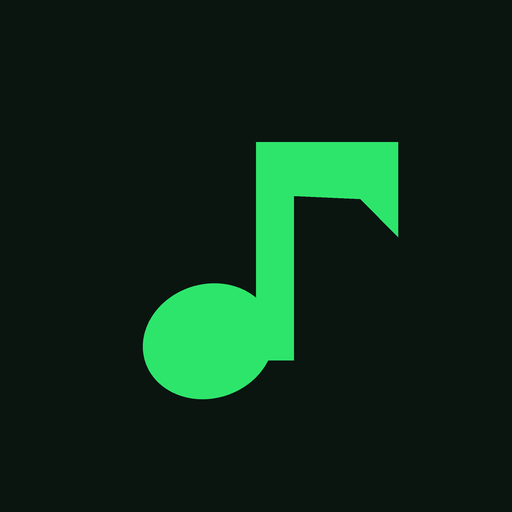
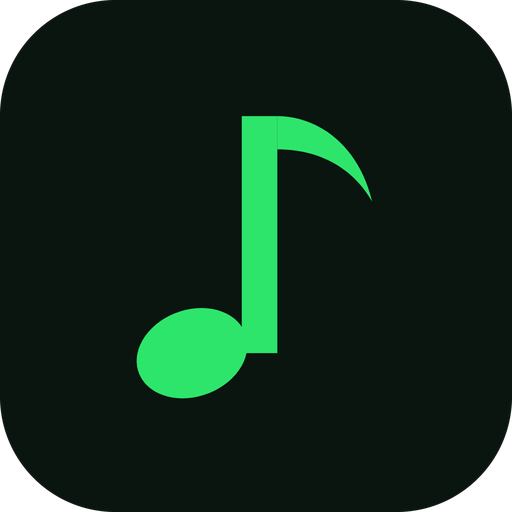
Melodia 7.30: icono rehecho y centrado
- Corchea redibujada: cabeza inclinada, mastil y bandera curva; centrada en el
  lienzo (antes estaba 4 dp a la derecha y 3 arriba) y dentro de la zona segura
  del icono adaptativo.
- Mipmaps legacy regenerados con esquinas redondeadas y version circular, con
  transparencia real; desaparecen los 10 avisos IconLauncherShape.
- Icono de tienda regenerado desde el mismo dibujo; original archivado en
  docs/store/sources/icon-512-anterior.png.
- tools/build_icon.py reproduce el icono y verifica zona segura y centrado.

diff --git a/tools/build_icon.py b/tools/build_icon.py
@@ -1,0 +1,157 @@
+#!/usr/bin/env python3
+"""Genera el icono de Melodia (adaptive + mipmaps legacy + icono de tienda).
+
+Uso: python3 tools/build_icon.py [--check]
+- Renderiza el SVG con Chromium headless y deriva todos los tamaños con LANCZOS.
+- --check solo informa geometría del render, sin escribir recursos.
+"""
+from __future__ import annotations
+
+import subprocess
+import sys
+import tempfile
+from pathlib import Path
+
+from PIL import Image, ImageDraw
+
+ROOT = Path(__file__).resolve().parents[1]
+RES = ROOT / "app/src/main/res"
+CHROME = sorted(Path.home().glob(".cache/ms-playwright/chromium_headless_shell-*/chrome-linux/headless_shell"))[-1]
+
+BG = "#0A1510"
+FG = "#2EE56B"
+SIZES = {"mdpi": 48, "hdpi": 72, "xhdpi": 96, "xxhdpi": 144, "xxxhdpi": 192}
+
+# Corchea centrada en el viewport 108x108: bbox x 29..79, y 24.5..83.5 (centro 54,54).
+NOTE = [
+    # Cabeza: elipse inclinada ~-20 grados.
+    "M40.5,74.5 m-11.5,0 a11.5,8.8 -20 1,0 23,0 a11.5,8.8 -20 1,0 -23,0",
+    # Mástil.
+    "M51,24.5 h7.5 v50 h-7.5 z",
+    # Bandera curva que cae hacia la derecha.
+    "M58.5,24.5 C66.5,24.5 75.5,30 78.5,42.5 C74.5,35.5 67.5,31.5 58.5,31.5 Z",
+]
+
+SVG_FULL = """<svg xmlns="http://www.w3.org/2000/svg" width="1024" height="1024" viewBox="0 0 108 108">
+<rect width="108" height="108" fill="{bg}"/>
+{paths}
+</svg>"""
+
+SVG_FG = """<svg xmlns="http://www.w3.org/2000/svg" width="1024" height="1024" viewBox="0 0 108 108">
+{paths}
+</svg>"""
+
+
+def svg(paths: list[str], background: str | None) -> str:
+    body = "\n".join(f'<path d="{d}" fill="{FG}"/>' for d in paths)
+    if background:
+        return SVG_FULL.format(bg=background, paths=body)
+    return SVG_FG.format(paths=body)
+
+
+def render(svg_text: str, out: Path) -> Image.Image:
+    html = Path(tempfile.mkdtemp(prefix="melodia-icon-")) / "i.html"
+    html.write_text(
+        "<!doctype html><meta charset=utf-8><style>html,body{margin:0;background:transparent}"
+        "svg{display:block}</style>" + svg_text,
+        encoding="utf-8",
+    )
+    subprocess.run(
+        [str(CHROME), "--headless", "--disable-gpu", "--hide-scrollbars", "--no-sandbox",
+         "--default-background-color=00000000", "--window-size=1024,1024",
+         "--virtual-time-budget=2000", f"--screenshot={out}", html.as_uri()],
+        check=True, capture_output=True, timeout=120,
+    )
+    return Image.open(out).convert("RGBA")
+
+
+def rounded_mask(size: int, radius_ratio: float) -> Image.Image:
+    scale = 4
+    big = Image.new("L", (size * scale, size * scale), 0)
+    ImageDraw.Draw(big).rounded_rectangle(
+        (0, 0, size * scale - 1, size * scale - 1), radius=int(size * scale * radius_ratio), fill=255
+    )
+    return big.resize((size, size), Image.LANCZOS)
+
+
+def circle_mask(size: int) -> Image.Image:
+    scale = 4
+    big = Image.new("L", (size * scale, size * scale), 0)
+    ImageDraw.Draw(big).ellipse((0, 0, size * scale - 1, size * scale - 1), fill=255)
+    return big.resize((size, size), Image.LANCZOS)
+
+
+def mask_of(im: Image.Image, mask: Image.Image) -> Image.Image:
+    out = im.copy()
+    out.putalpha(mask)
+    return out
+
+
+def geometry(im: Image.Image) -> dict:
+    alpha = im.getchannel("A")
+    bbox = alpha.getbbox()
+    w, h = im.size
+    total = sum(alpha.getdata())
+    cx = cy = 0.0
+    if total:
+        px = alpha.load()
+        for y in range(h):
+            for x in range(w):
+                a = px[x, y]
+                if a:
+                    cx += x * a
+                    cy += y * a
+    return {
+        "bbox": bbox,
+        "bbox_ratio": None if not bbox else (
+            round((bbox[0]) / w, 3), round(bbox[1] / h, 3),
+            round((w - bbox[2]) / w, 3), round((h - bbox[3]) / h, 3),
+        ),
+        "centroid_ratio": (round(cx / total / w, 4), round(cy / total / h, 4)) if total else None,
+        "coverage": round(total / (255 * w * h), 4),
+    }
+
+
+def main() -> None:
+    check = "--check" in sys.argv
+    tmp = Path(tempfile.mkdtemp(prefix="melodia-icon-out-"))
+    full = render(svg(NOTE, BG), tmp / "full.png")
+    fg = render(svg(NOTE, None), tmp / "fg.png")
+
+    print("FULL", geometry(full))
+    print("FOREGROUND", geometry(fg))
+
+    # Zona segura del icono adaptativo: círculo de 66/108 centrado.
+    bbox = fg.getchannel("A").getbbox()
+    safe_lo, safe_hi = 108 * (1 - 66 / 108) / 2, 108 - 108 * (1 - 66 / 108) / 2
+    assert bbox, "El foreground quedó vacío"
+    lo, hi = bbox[0] / 1024 * 108, bbox[2] / 1024 * 108
+    top, bottom = bbox[1] / 1024 * 108, bbox[3] / 1024 * 108
+    print("SAFE_ZONE", round(safe_lo, 2), round(safe_hi, 2), "content", round(lo, 2), round(hi, 2),
+          round(top, 2), round(bottom, 2))
+    assert lo >= safe_lo and hi <= safe_hi and top >= safe_lo and bottom <= safe_hi, "La nota sale de la zona segura"
+
+    if check:
+        return
+
+    square = full.resize((1024, 1024), Image.LANCZOS)
+    legacy = mask_of(square, rounded_mask(1024, 0.225))
+    round_icon = mask_of(square, circle_mask(1024))
+
+    for density, size in SIZES.items():
+        d = RES / f"mipmap-{density}"
+        d.mkdir(parents=True, exist_ok=True)
+        legacy.resize((size, size), Image.LANCZOS).save(d / "ic_launcher.png", optimize=True)
+        round_icon.resize((size, size), Image.LANCZOS).save(d / "ic_launcher_round.png", optimize=True)
+
+    store = ROOT / "docs/store"
+    previous = store / "sources/icon-512-anterior.png"
+    if (store / "icon-512.png").exists() and not previous.exists():
+        previous.parent.mkdir(parents=True, exist_ok=True)
+        previous.write_bytes((store / "icon-512.png").read_bytes())
+    legacy.resize((512, 512), Image.LANCZOS).save(store / "icon-512.png", optimize=True)
+    print("ICONOS_GENERADOS", sorted(SIZES), "tienda", store / "icon-512.png")
+
+
+if __name__ == "__main__":
+    main()

diff --git a/docs/store/RELEASE.md b/docs/store/RELEASE.md
@@ -1,8 +1,8 @@
 # Melodia — Estado de preparación de la publicación
 
-Revisión: 5 de noviembre de 2026. Rama `publicacion-20261105`, versión **7.29 (versionCode 96)**.
-Base de partida: `1f91a7e` (7.27 / 94); la preparación de publicación entró en 7.28 (95) y 7.29 retira
-la medición de rendimiento y toda mención a la política dentro de la app.
+Revisión: 5 de noviembre de 2026. Rama `publicacion-20261105`, versión **7.30 (versionCode 97)**.
+Base de partida: `1f91a7e` (7.27 / 94); la preparación de publicación entró en 7.28 (95) 7.29 retira
+la medición de rendimiento y toda mención a la política, y 7.30 rehace el icono.
 
 **Preparado, no enviado.** Este documento registra qué está verificado y qué falta. No autoriza subir
 la app a Google Play ni sustituye las pruebas en un teléfono real.
@@ -45,7 +45,7 @@ Resultado del build final: **BUILD SUCCESSFUL**, **203 pruebas, 0 fallos, 0 erro
   `com.melodia.app`. `keystore.properties` y `*.jks` están ignorados por git y no entran en el repo.
 - `apksigner verify` pasa en perf y release; el AAB valida con `bundletool 1.18.3 validate` (JAR
   descargado del release oficial con SHA-256 comprobado) y su firma JAR verifica con `jarsigner`.
-- Manifest del AAB comprobado: `com.melodia.app`, `versionCode 96`, `versionName 7.29`, `minSdk 24`,
+- Manifest del AAB comprobado: `com.melodia.app`, `versionCode 97`, `versionName 7.30`, `minSdk 24`,
   `targetSdk 36`, `debuggable=false`.
 - **APK/AAB no contienen código nativo** (`.so` = 0), por lo que no aplica el problema de empaquetado
   de 16 KB; igual conviene probar en un entorno de 16 KB antes de dar por cerrado ese punto.
